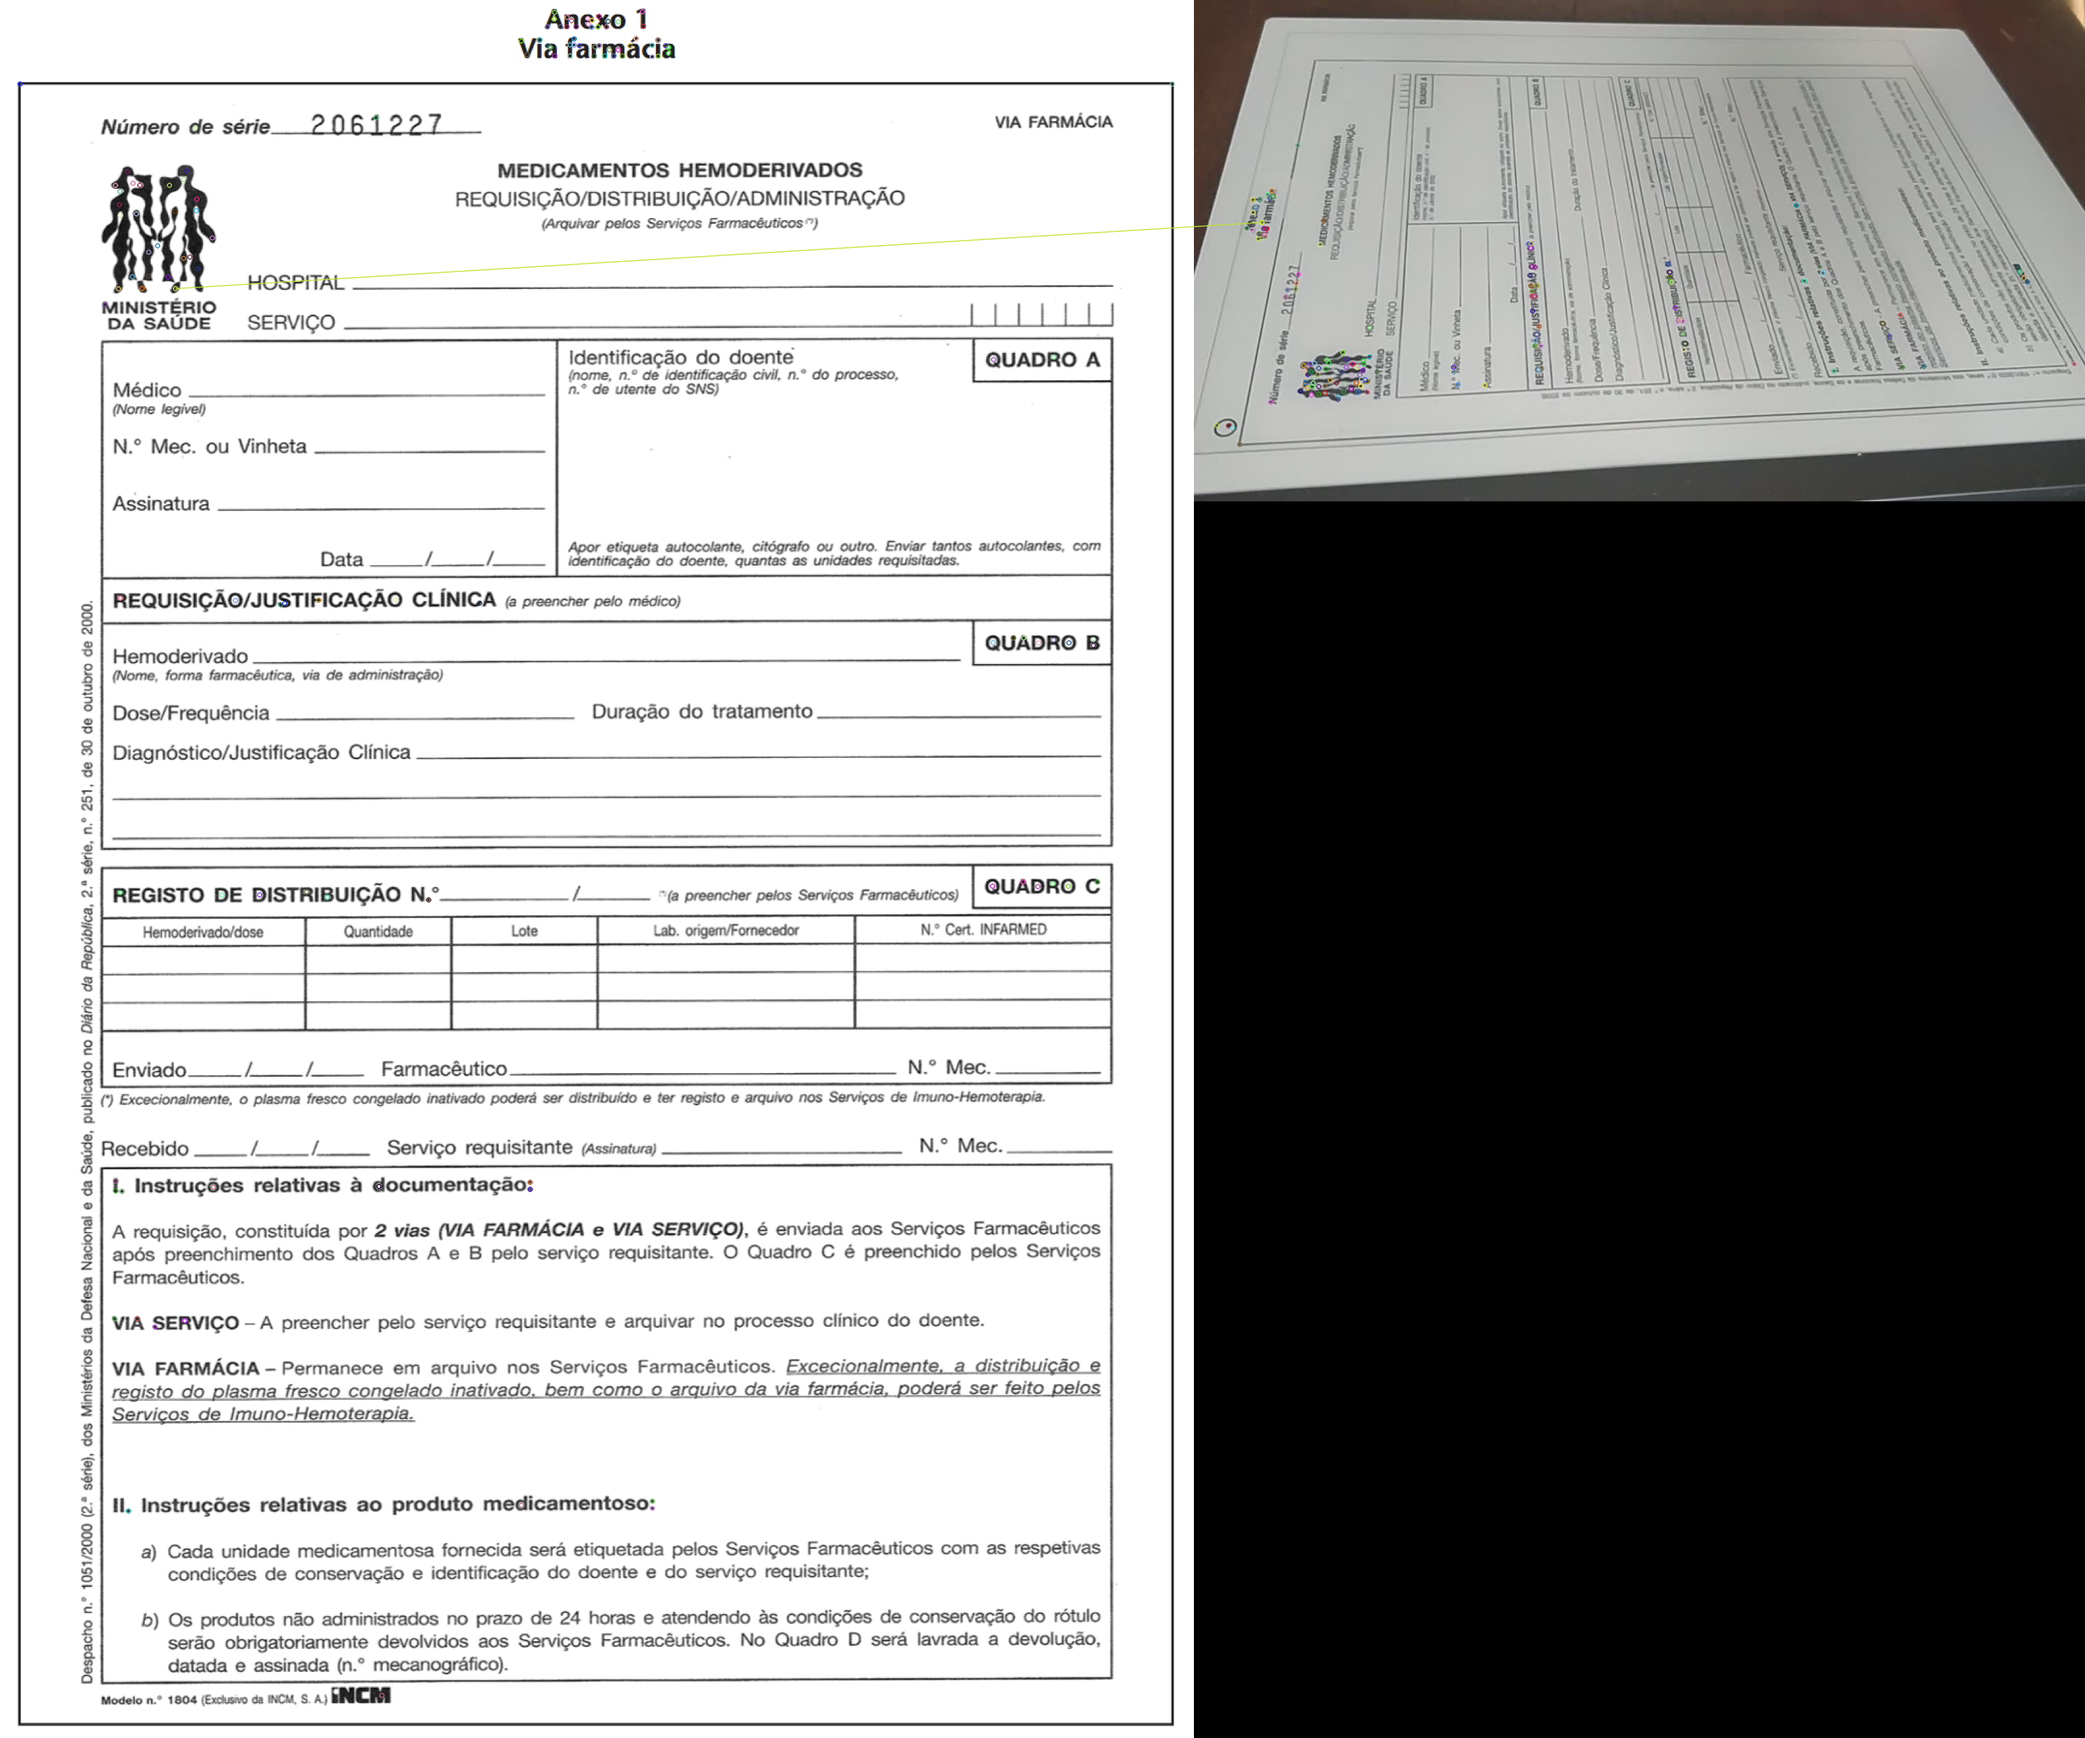
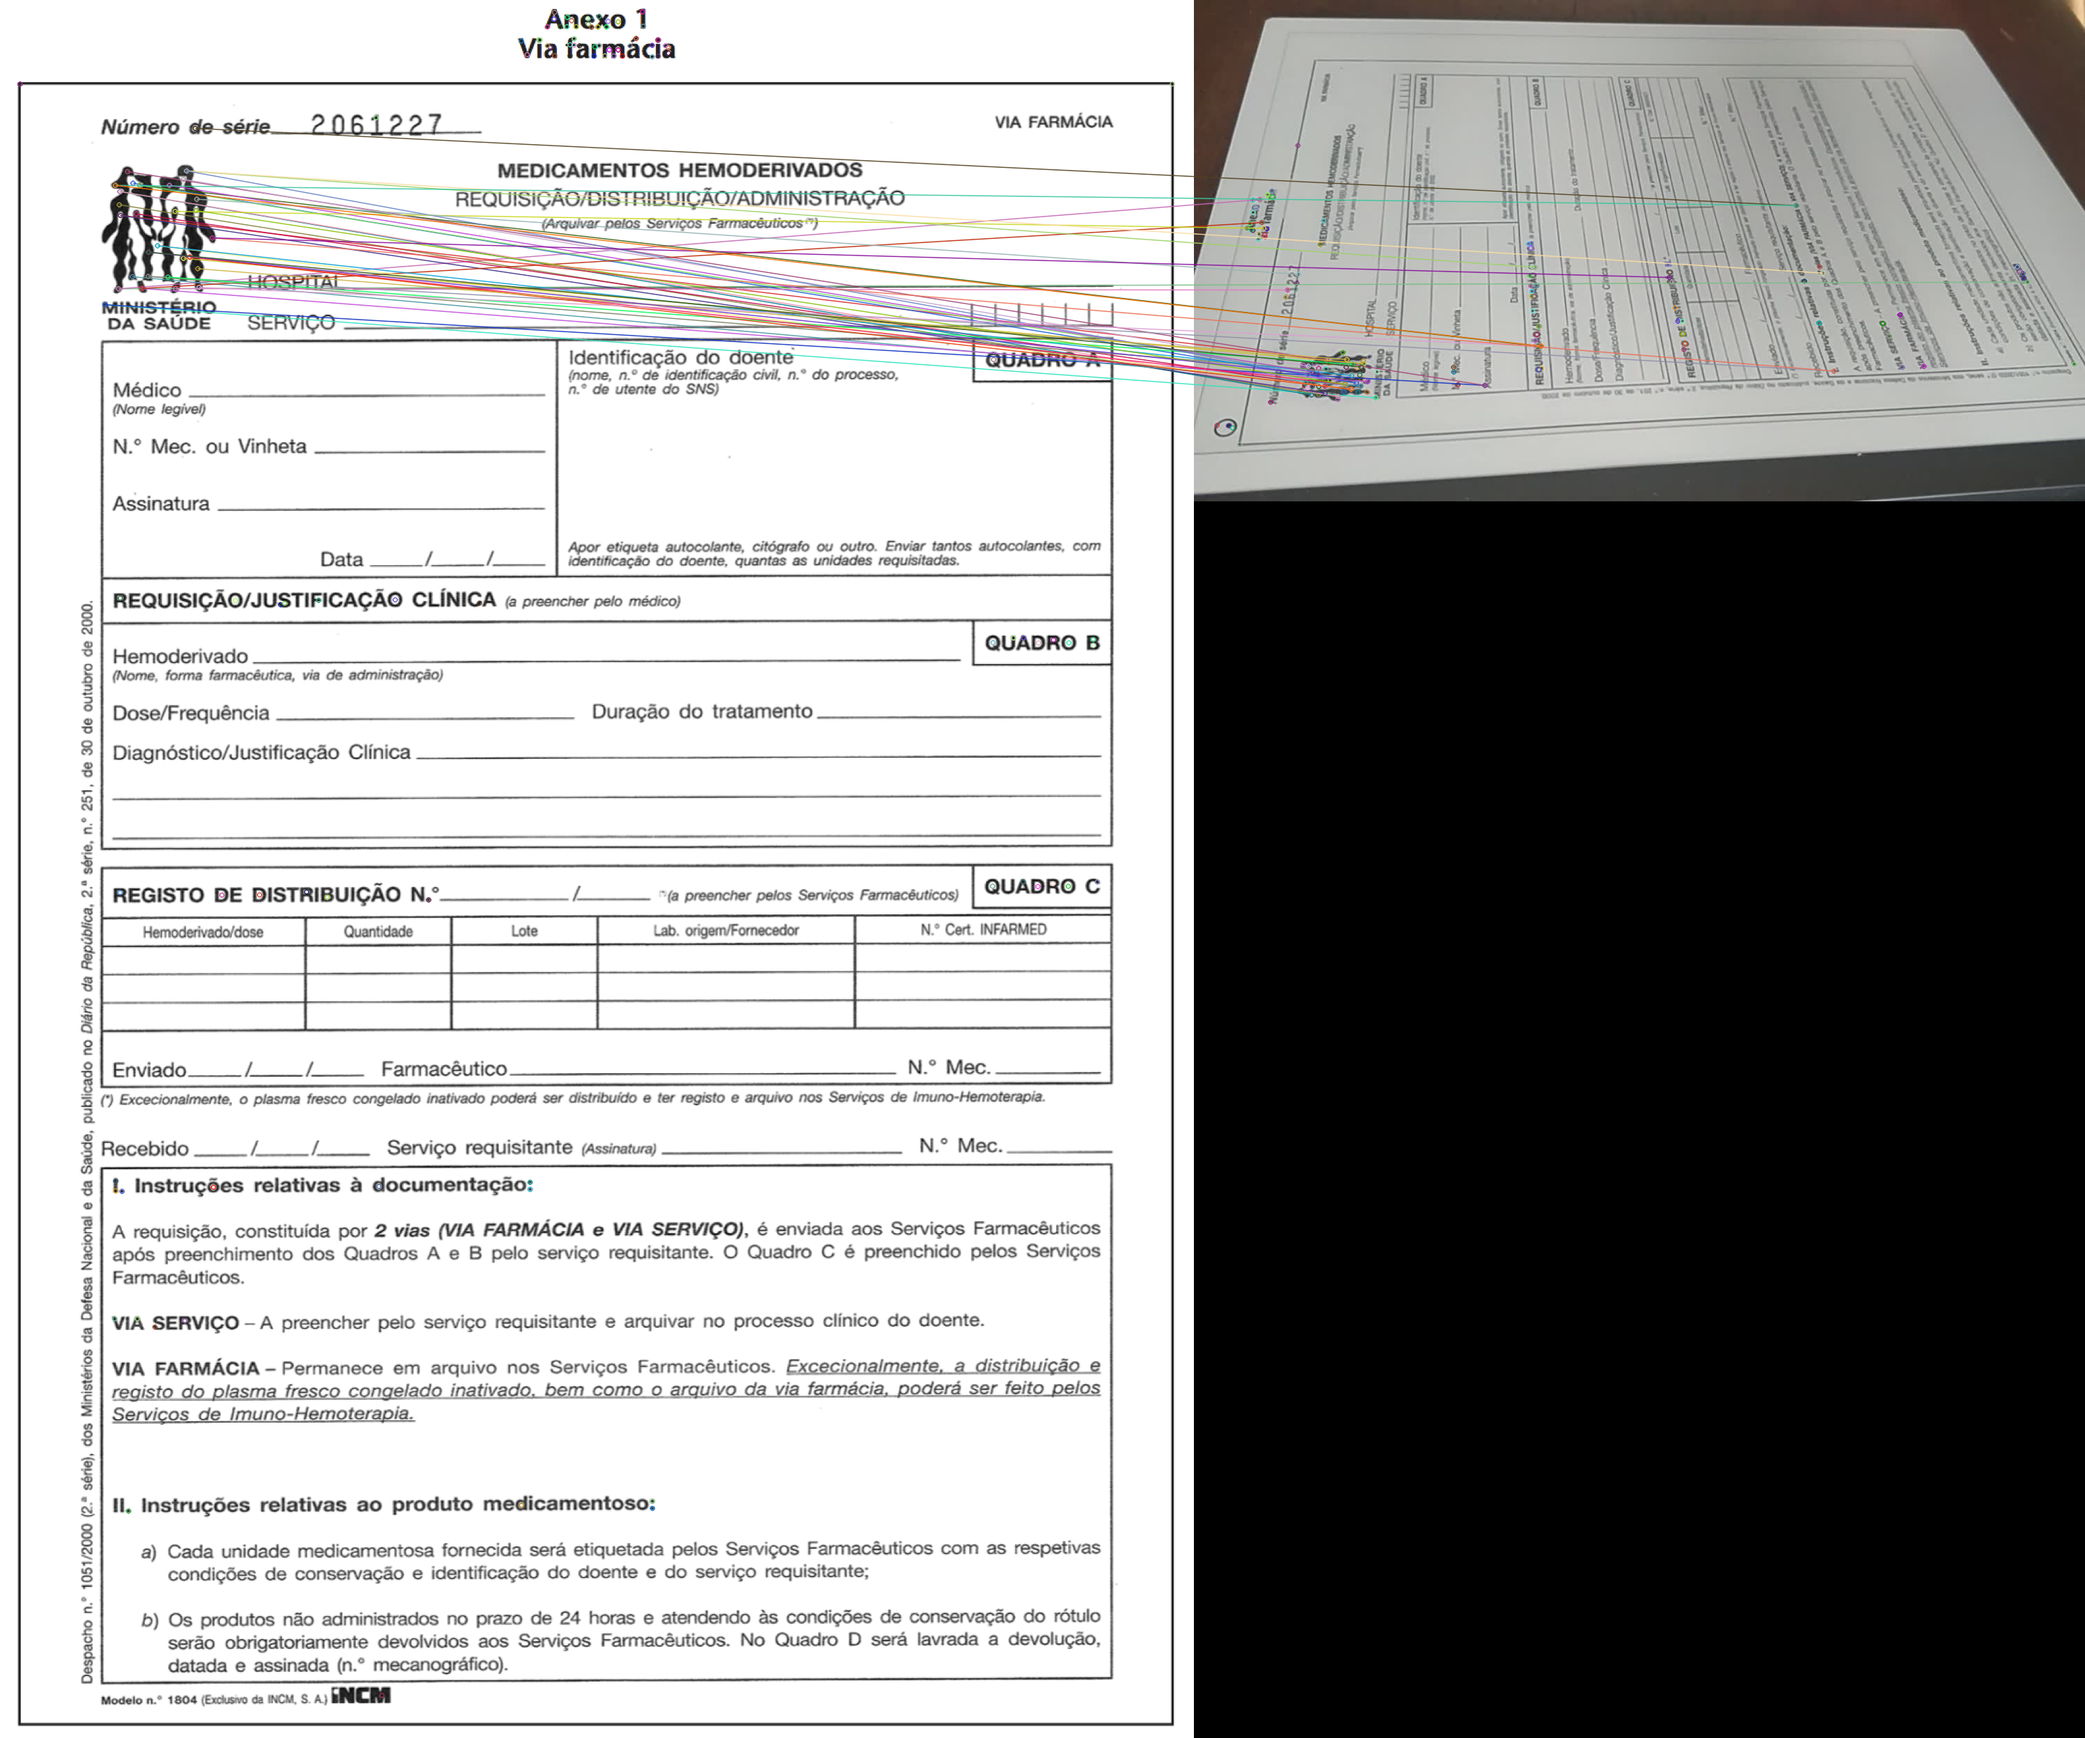
Avoid matching multiple times the same keypoints

Changed region(s): [[0.0621, 0.0938, 0.7142, 0.25]]

diff --git a/kp_matching.py b/kp_matching.py
@@ -6,6 +6,7 @@ def brute_force_matcher(descriptors1, descriptors2):
     n_desc2 = descriptors2.shape[0]
 
     correspondences = []
+    used = np.zeros(n_desc2)
 
     # Descriptors of the 1st set
     for i in range(n_desc1):
@@ -16,17 +17,20 @@ def brute_force_matcher(descriptors1, descriptors2):
 
         # Descriptors for the 2nd set
         for j in range(n_desc2):
-            descriptor2 = descriptors2[j]
+            if used[j] != 1:
+                descriptor2 = descriptors2[j]
 
-            # Calculate the distance between the descriptors
-            distance = np.linalg.norm(descriptor1 - descriptor2)
+                # Calculate the distance between the descriptors
+                distance = np.linalg.norm(descriptor1 - descriptor2)
 
-            # Check if j is better candidate
-            if distance < min_distance:
-                best_match = j
-                min_distance = distance
+                # Check if j is better candidate
+                if distance < min_distance:
+                    best_match = j
+                    min_distance = distance
 
         # Update result list with best candidate
-        correspondences.append((i, best_match))
+        if best_match is not None:
+            correspondences.append((i, best_match))
+            used[best_match] = 1
 
     return correspondences
